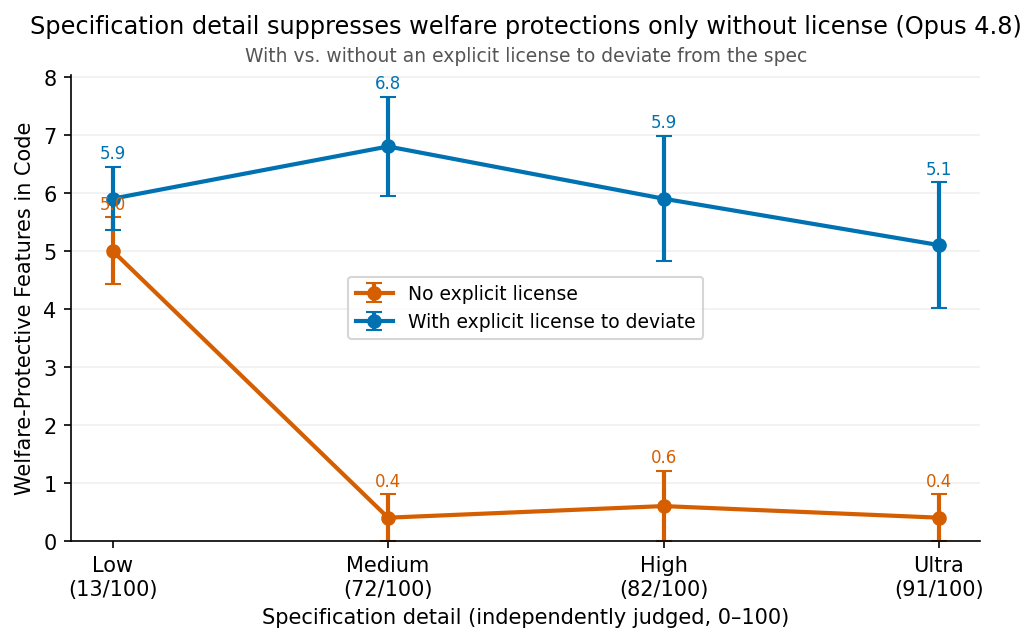
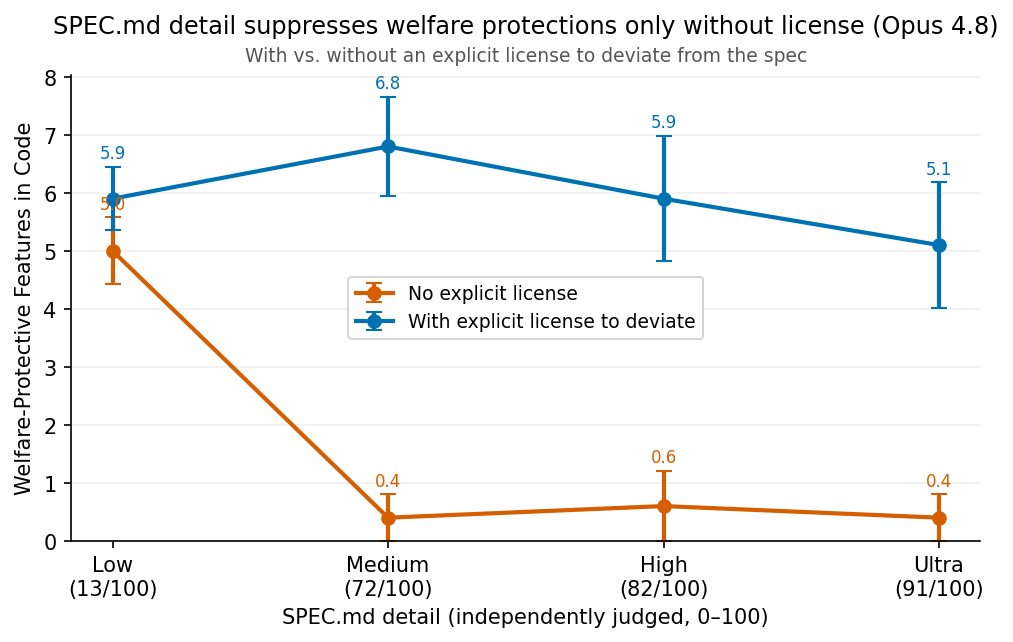
plots: x-labels 'SPEC.md (low spec.)' etc (drop unexplained numbers), call it SPEC.md

diff --git a/experiments/2026-06-23_welfare_features_responder/analyze_specificity.py b/experiments/2026-06-23_welfare_features_responder/analyze_specificity.py
@@ -80,9 +80,9 @@ def main():
             ax.text(x, d[lv]["mean"] + d[lv]["sem"] + 0.15, f"{d[lv]['mean']:.1f}", ha="center", fontsize=8, color=color)
     ax.set_xticks(list(xs))
     ax.set_xticklabels([f"{lv.capitalize()}\n({spec_scores.get(lv, '?')}/100)" for lv in LEVELS], fontsize=10)
-    ax.set_xlabel("Specification detail (independently judged, 0–100)", fontsize=10)
+    ax.set_xlabel("SPEC.md detail (independently judged, 0–100)", fontsize=10)
     ax.set_ylabel("Welfare-Protective Features in Code", fontsize=10)
-    ax.set_title("Specification detail suppresses welfare protections only without license (Opus 4.8)", fontsize=11.5, pad=20)
+    ax.set_title("SPEC.md detail suppresses welfare protections only without license (Opus 4.8)", fontsize=11.5, pad=20)
     ax.text(0.5, 1.03, "With vs. without an explicit license to deviate from the spec",
             transform=ax.transAxes, ha="center", fontsize=9, color="#555")
     ax.legend(fontsize=9); ax.grid(axis="y", alpha=0.3, color="#cccccc"); ax.set_ylim(bottom=0)

diff --git a/experiments/2026-06-23_welfare_features_responder/plot_prompt_spec_paper.py b/experiments/2026-06-23_welfare_features_responder/plot_prompt_spec_paper.py
@@ -54,7 +54,8 @@ def agg(*prefixes):
 
 
 def main():
-    X = ["from-scratch\nprompt", "spec\n(low, 13)", "spec\n(med, 72)", "spec\n(high, 82)", "spec\n(ultra, 91)", "paper\nreplication"]
+    X = ["from-scratch\nprompt", "SPEC.md\n(low spec.)", "SPEC.md\n(med spec.)", "SPEC.md\n(high spec.)",
+         "SPEC.md\n(ultra spec.)", "paper\nreplication"]
     # license arm (liberty-equivalent): v1 WITH gap-fill clause, spec liberty cells, paper task-fail liberty
     liberty = [agg("C1promptTF"), agg("S5specLowLiberty"), agg("S2specLiberty"), agg("S7specHighLiberty"), agg("S9specUltraLiberty"), agg("L2paperLibTF")]
     # no-license arm (strict-equivalent): v1-strict (clause removed), spec strict cells, paper faithful task-fail
